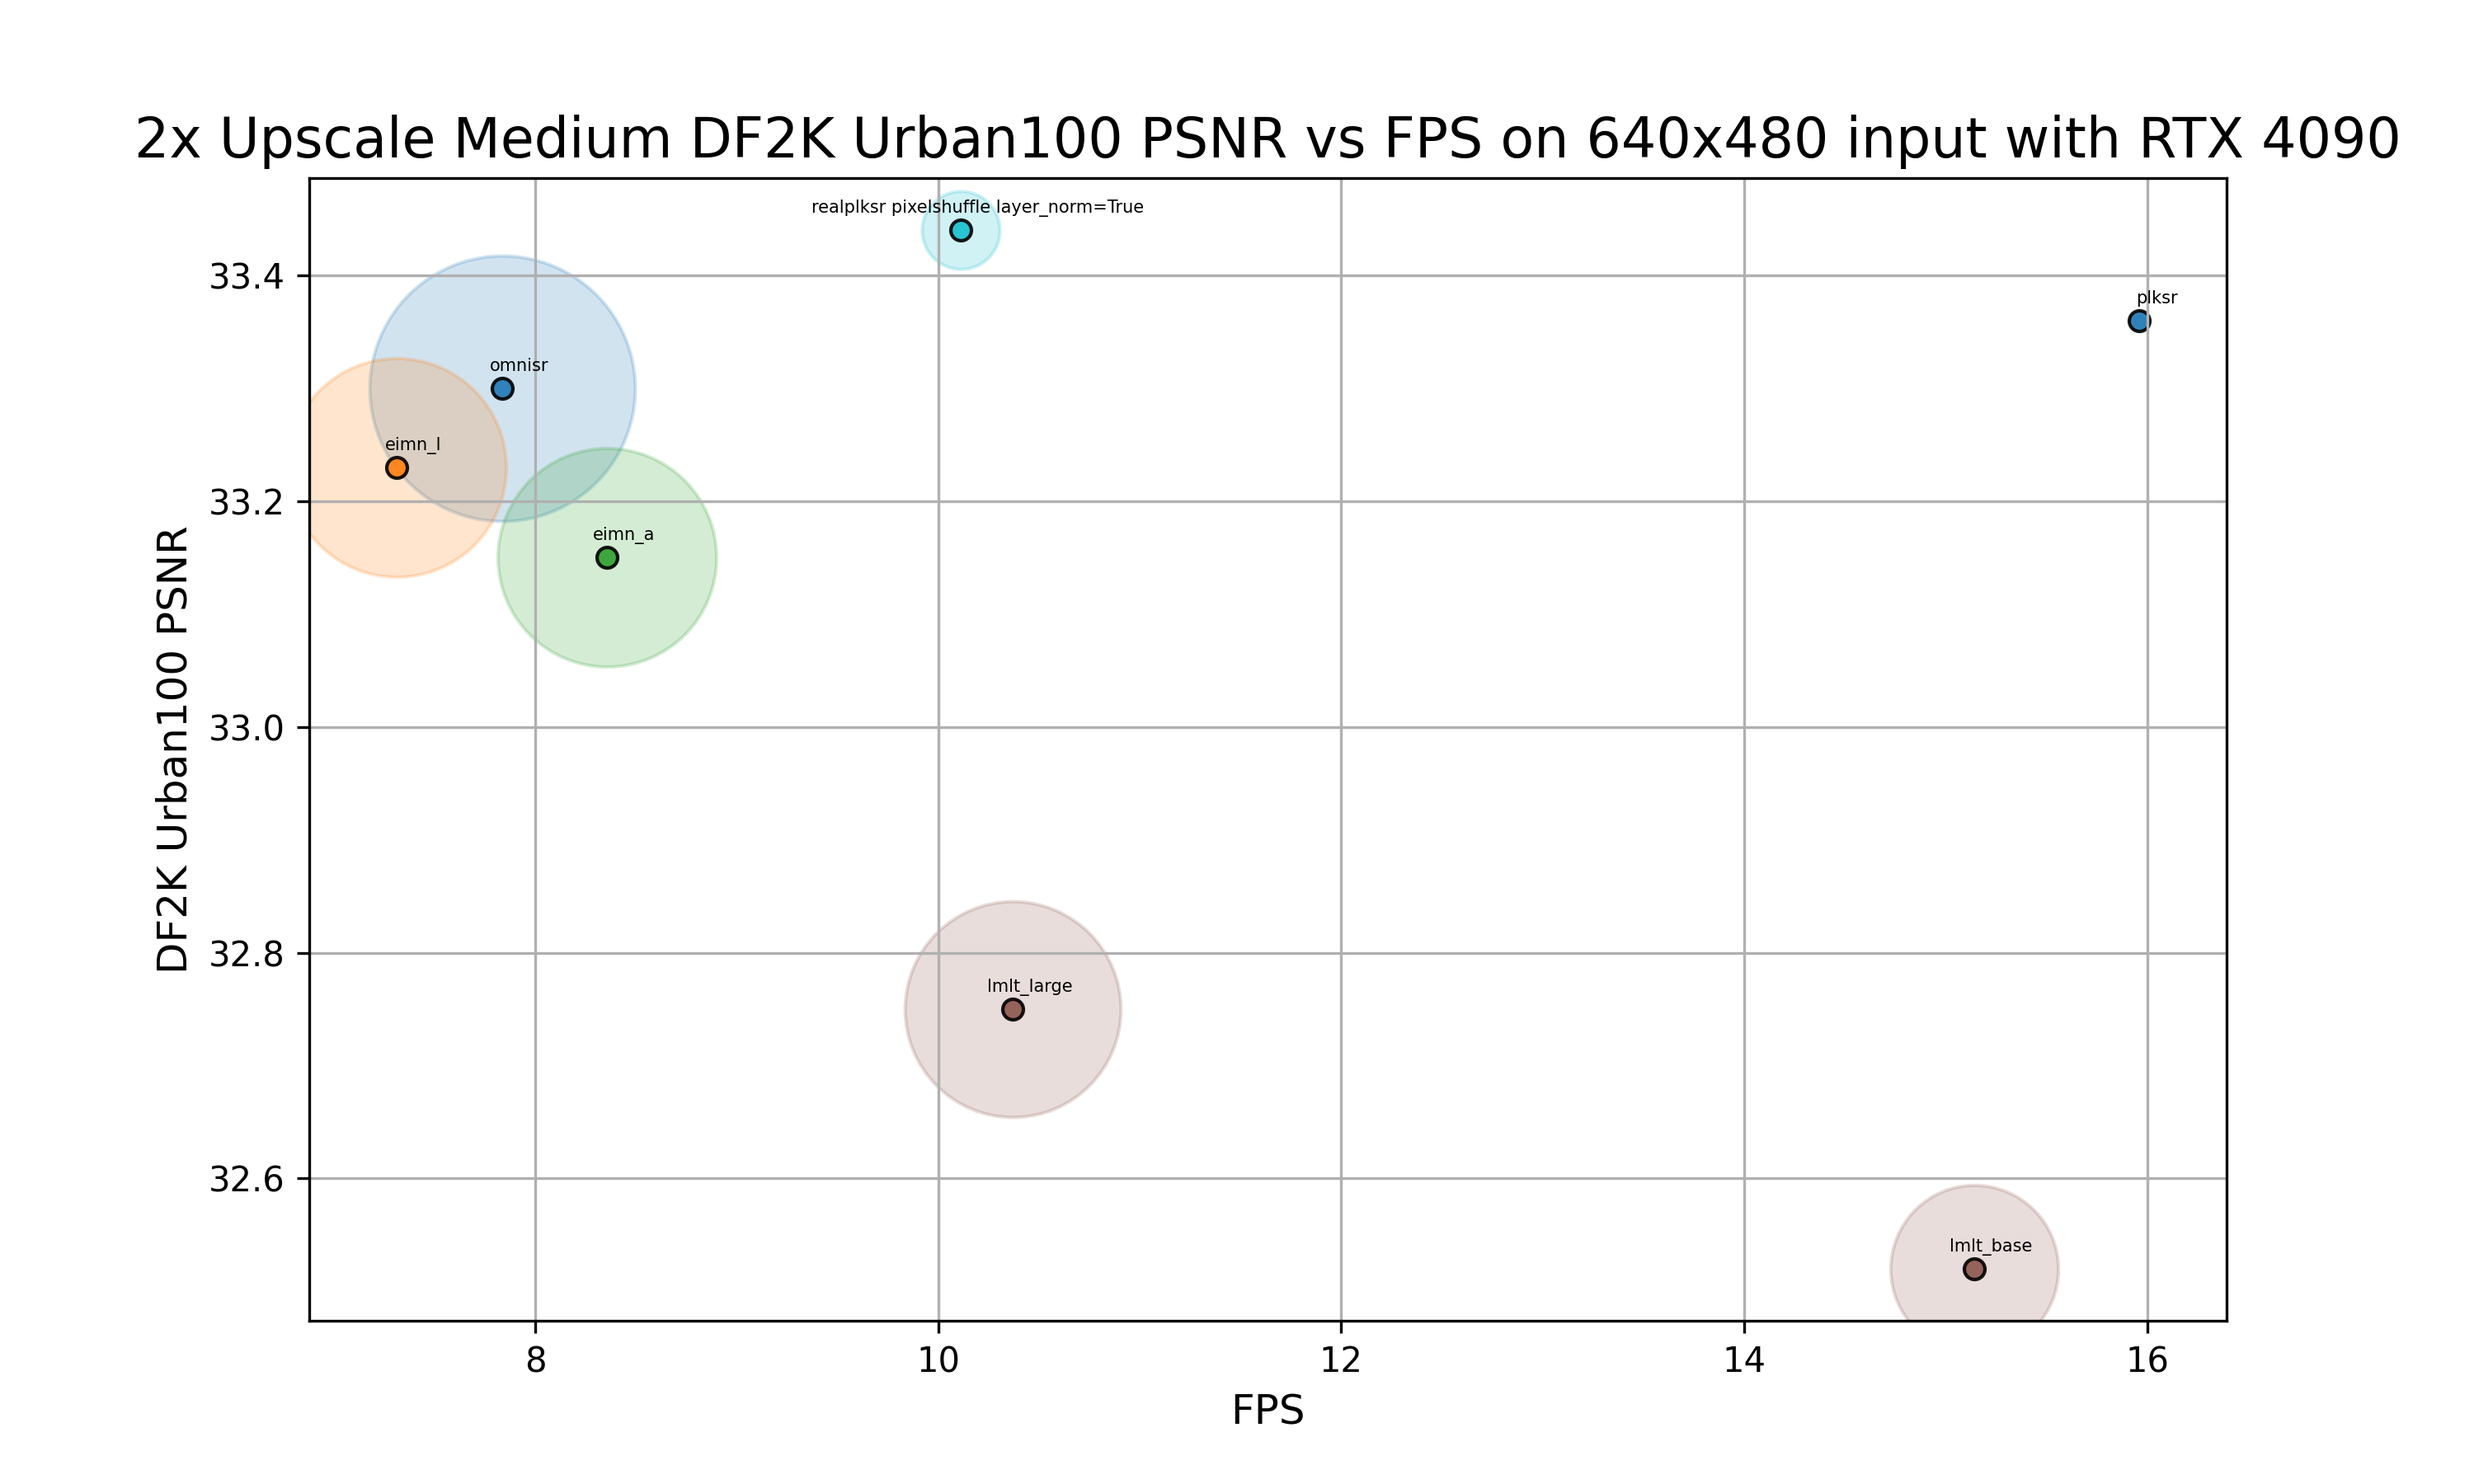
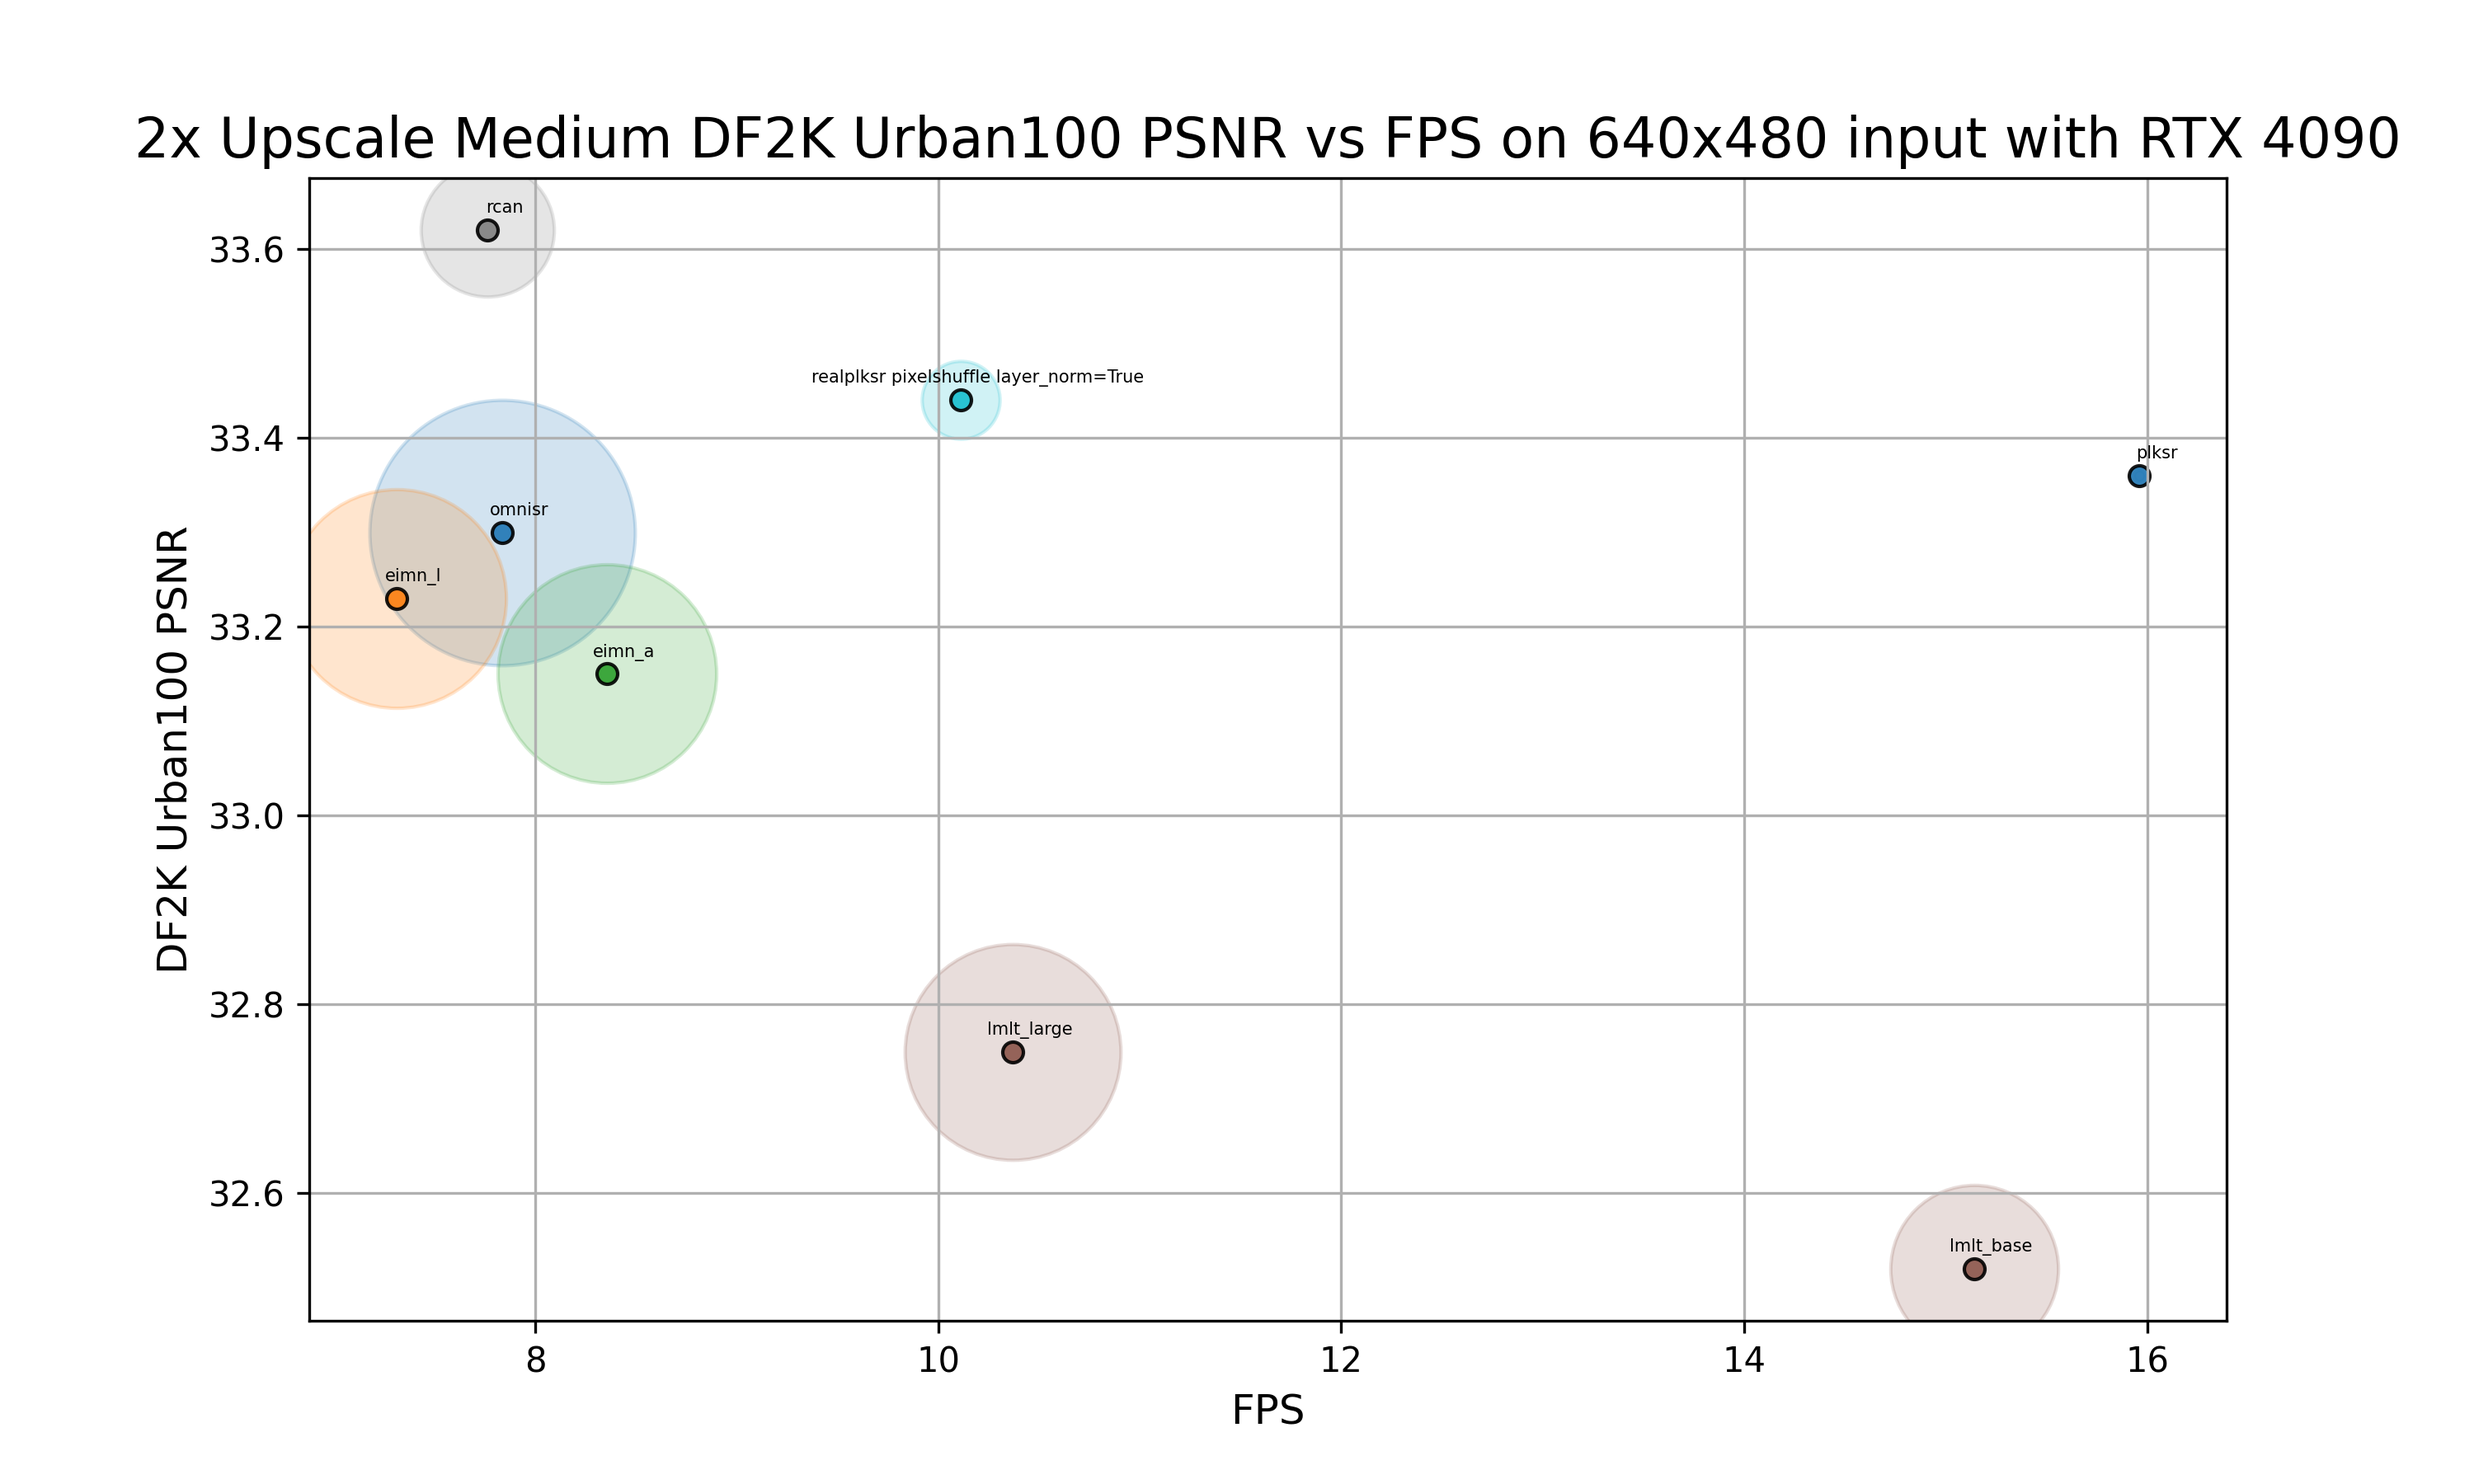
add rcan metrics

diff --git a/traiNNer/archs/arch_info.py b/traiNNer/archs/arch_info.py
@@ -265,7 +265,12 @@ OFFICIAL_METRICS: dict[
         },
     },
     "rcan": {
-        2: {"div2k_psnr": 33.34, "div2k_ssim": 0.9384},
+        2: {
+            "div2k_psnr": 33.34,
+            "div2k_ssim": 0.9384,
+            "df2k_psnr": 33.62,
+            "df2k_ssim": 0.9410,
+        },
         3: {"div2k_psnr": 29.09, "div2k_ssim": 0.8702},
         4: {
             "div2k_psnr": 26.82,
